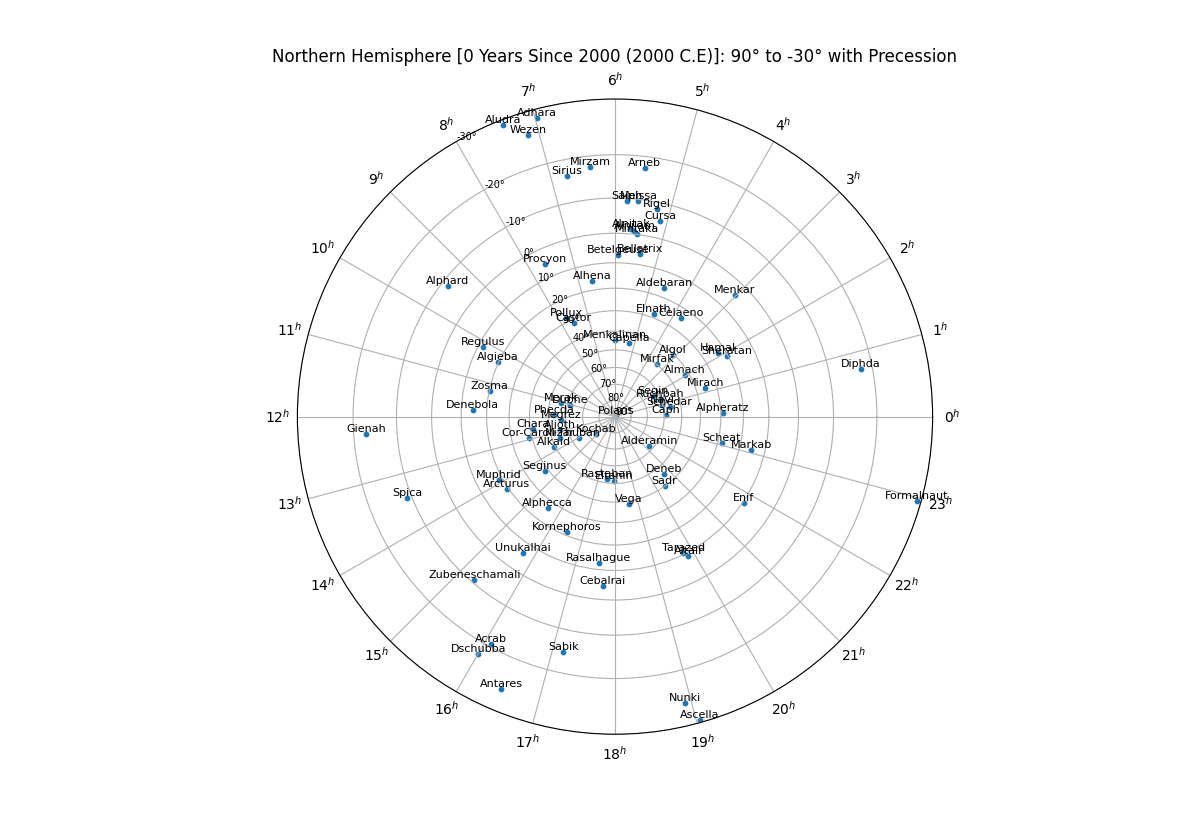
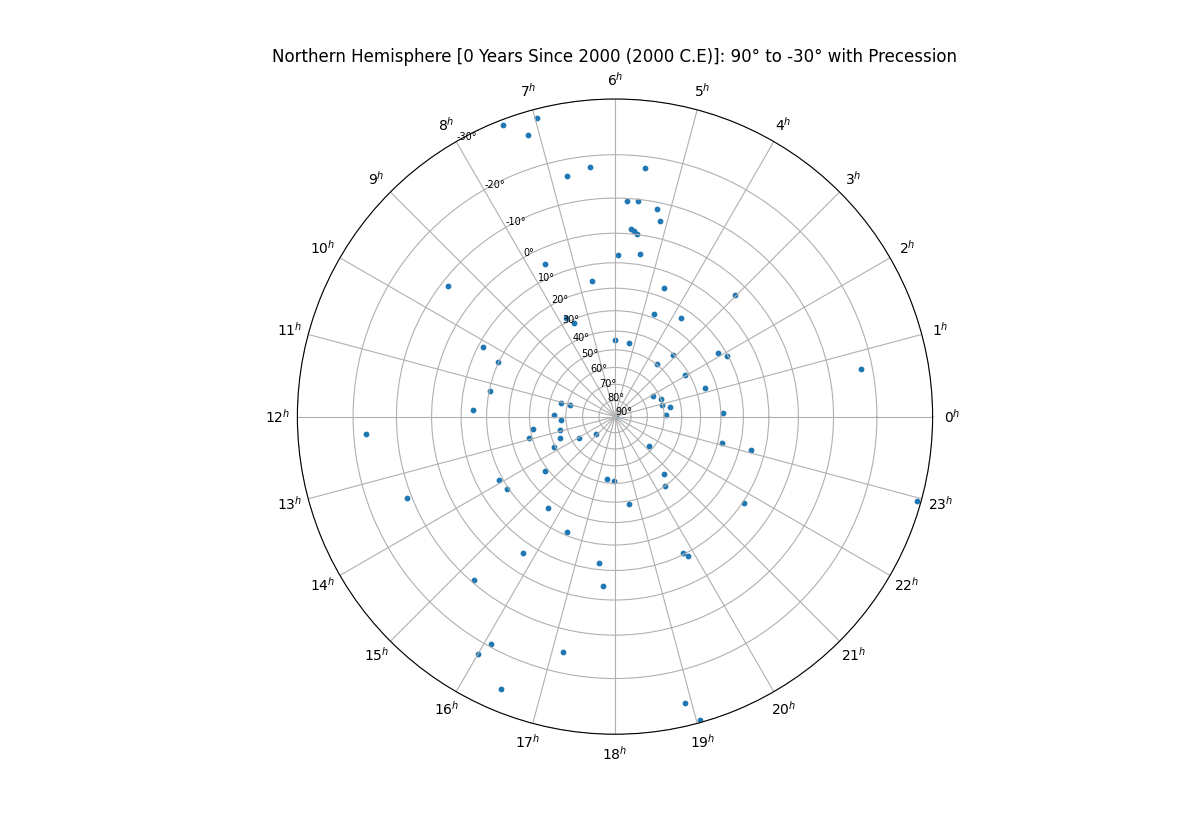
update README.md

diff --git a/generate_examples_star_chart.py b/generate_examples_star_chart.py
@@ -31,7 +31,7 @@ if __name__ == '__main__':
 	print("new_star_object.properMotionSpeedDec = {0}".format(new_star_object.properMotionSpeedDec))
 	print("new_star_object.magnitudeVisual = {0}".format(new_star_object.magnitudeVisual))
 
-	star_chart_spherical_projection.plotStereographicProjection(northOrSouth="North", fig_plot_title="Example Figure Title")
+	star_chart_spherical_projection.plotStereographicProjection(northOrSouth="North")
 	exit()
 
 	star_chart_spherical_projection.plotStereographicProjection(builtInStars=["Vega"],

diff --git a/README.md b/README.md
@@ -41,23 +41,23 @@ Plot some built-in stars as well as two new user defined stars in the Northern H
 import star_chart_spherical_projection as scsp
 
 exalibur_star = scsp.newStar(starName="Exalibur",
-			ra="14.04.23",
-			dec=64.22,
-			properMotionSpeed=12.3,
-			properMotionAngle=83,
-			magnitudeVisual=1.2)
+				ra="14.04.23",
+				dec=64.22,
+				properMotionSpeed=12.3,
+				properMotionAngle=83,
+				magnitudeVisual=1.2)
 karaboudjan_star = scsp.newStar(starName="Karaboudjan",
-			ra="3.14.15",
-			dec=10.13,
-			properMotionSpeedRA=57.6,
-			properMotionSpeedDec=60.1,
-			magnitudeVisual=0.3)
+				ra="3.14.15",
+				dec=10.13,
+				properMotionSpeedRA=57.6,
+				properMotionSpeedDec=60.1,
+				magnitudeVisual=0.3)
 scsp.plotStereographicProjection(northOrSouth="North",
-			builtInStars=["Vega", "Arcturus", "Altair"],
-			userDefinedStars=[exalibur_star, karaboudjan_star],
-			displayStarNamesLabels=True,
-			fig_plot_color="red",
-			yearSince2000=-39)
+				builtInStars=["Vega", "Arcturus", "Altair"],
+				userDefinedStars=[exalibur_star, karaboudjan_star],
+				displayStarNamesLabels=True,
+				fig_plot_color="red",
+				yearSince2000=-39)
 ```
 ![quickstart_star_chart+png](https://raw.githubusercontent.com/cyschneck/Star-Chart-Spherical-Projection/main/examples/quickstart_newstar_example.png) 
 
@@ -137,11 +137,11 @@ As seen in [wikipeida.og for Pollux](https://en.wikipedia.org/wiki/Pollux_(star)
 
 ```
 star_chart_spherical_projection.newStar(starName=None,
-					ra=None,
-					dec=None,
-					properMotionSpeedRA=None,
-					properMotionSpeedDec=None,
-					magnitudeVisual=None)
+						ra=None,
+						dec=None,
+						properMotionSpeedRA=None,
+						properMotionSpeedDec=None,
+						magnitudeVisual=None)
 ```
 * **[REQUIRED]** starName (string): A star name to be displayed as a label
 * **[REQUIRED]** ra (string): Right Ascension as a string with three parts 'HH.MM.SS' (Hours, Minutes, Seconds)
@@ -174,22 +174,22 @@ Important Note: RA/Dec proper motion will be converted from speed along the righ
 Plot stars on a Stereographic Polar Plot
 ```
 plotStereographicProjection(northOrSouth=None, 
-			builtInStars=[], 
-			declination_min=None,
-			yearSince2000=0,
-			displayStarNamesLabels=True,
-			displayDeclinationNumbers=True,
-			incrementBy=10,
-			isPrecessionIncluded=True,
-			maxMagnitudeFilter=None,
-			userDefinedStars=[],
-			onlyDisplayUserStars=False,
-			showPlot=True,
-			fig_plot_title=None,
-			fig_plot_color="C0",
-			figsize_n=12,
-			figsize_dpi=100,
-			save_plot_name=None)
+				builtInStars=[], 
+				declination_min=None,
+				yearSince2000=0,
+				displayStarNamesLabels=True,
+				displayDeclinationNumbers=True,
+				incrementBy=10,
+				isPrecessionIncluded=True,
+				maxMagnitudeFilter=None,
+				userDefinedStars=[],
+				onlyDisplayUserStars=False,
+				showPlot=True,
+				fig_plot_title=None,
+				fig_plot_color="C0",
+				figsize_n=12,
+				figsize_dpi=100,
+				save_plot_name=None)
 ```
 - **[REQUIRED]** northOrSouth: (string) map for either the "North" or "South" hemisphere
 - *[OPTIONAL]* builtInStars: (list) a list of star names to include from built-in list, by default = [] includes all stars (in star_data.csv). Example: ["Vega", "Merak", "Dubhe"]
@@ -265,11 +265,11 @@ plotStereographicProjection(northOrSouth=None,
 | ------------- | ------------- |
 | ![onlyDisplayUserStars_default+png](https://raw.githubusercontent.com/cyschneck/Star-Chart-Spherical-Projection/main/examples/onlyDisplayUserStars_default.png) | ![onlyDisplayUserStars+png](https://raw.githubusercontent.com/cyschneck/Star-Chart-Spherical-Projection/main/examples/onlyDisplayUserStars_true.png) |
 
-| fig_plot_title=(default) | fig_plot_title="Example Figure Title" |
+| fig_plot_title=<default> | fig_plot_title="This is a Example Title for a Star Chart" |
 | ------------- | ------------- |
 | ![fig_plot_title_default+png](https://raw.githubusercontent.com/cyschneck/Star-Chart-Spherical-Projection/main/examples/fig_plot_title_default.png) | ![fig_plot_title+png](https://raw.githubusercontent.com/cyschneck/Star-Chart-Spherical-Projection/main/examples/fig_plot_title_example.png) |
 
-| fig_plot_color="C0" (default) | fig_plot_color="darkorchid" |
+| fig_plot_color="C0" (default) (without star labels) | fig_plot_color="darkorchid" (without star labels) |
 | ------------- | ------------- |
 | ![fig_plot_color_default+png](https://raw.githubusercontent.com/cyschneck/Star-Chart-Spherical-Projection/main/examples/fig_plot_color_default.png) | ![fig_plot_color_dark_orchid+png](https://raw.githubusercontent.com/cyschneck/Star-Chart-Spherical-Projection/main/examples/fig_plot_color_darkorchid.png) |
 
